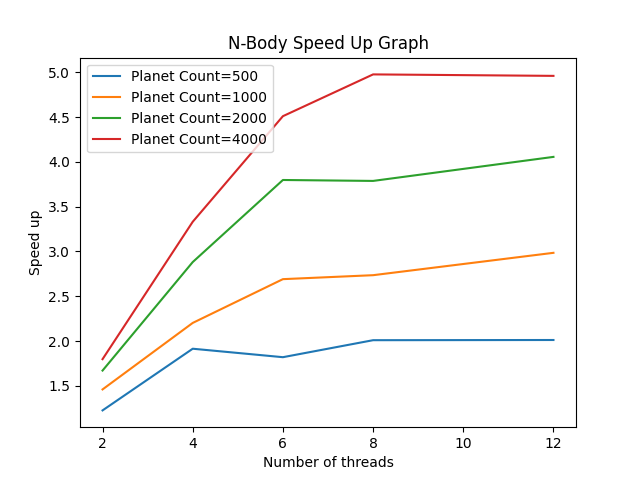
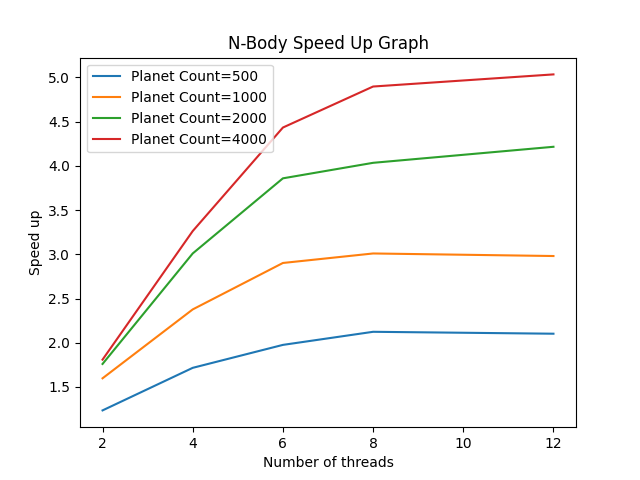
Update testing scripts.

diff --git a/proj3/benchmark/run_benchmark.py b/proj3/benchmark/run_benchmark.py
@@ -13,7 +13,6 @@
 # SBATCH --cpus-per-task=16
 # SBATCH --mem-per-cpu=300
 
-from posix import environ
 import matplotlib
 import matplotlib.pyplot as plt
 import subprocess
@@ -22,7 +21,9 @@ import os
 
 
 # Load module for test
-subprocess.call("module load golang/1.16.2", shell=True)
+print("[Main] Running on",os.name)
+if os.name != 'nt':
+    subprocess.call("module load golang/1.16.2", shell=True, stdout=subprocess.PIPE)
 
 # Global set up for test script
 matplotlib.use('Agg')
@@ -72,6 +73,8 @@ for planetCount in planetCount_list:
     print("[Seq]", planetCount, "planets took", seq_result[planetCount], 
           "seconds to finish")
     sys.stdout.flush()
+    # Delete Unwanted file
+    os.remove(relativePath+filePath)
 
 # Run parallel tests and create graph
 print("[Main] Run Parallel Tests")

diff --git a/proj3/main/nbody_test.go b/proj3/main/nbody_test.go
@@ -298,7 +298,7 @@ func TestBenchmark(t *testing.T) {
 			if err != nil {
 				t.Fatal("<TestBenchmark> Failed to save file")
 			} else {
-				fmt.Fprintln(file, duration)
+				fmt.Fprintf(file, "%f", duration)
 				file.Close()
 			}
 		}
